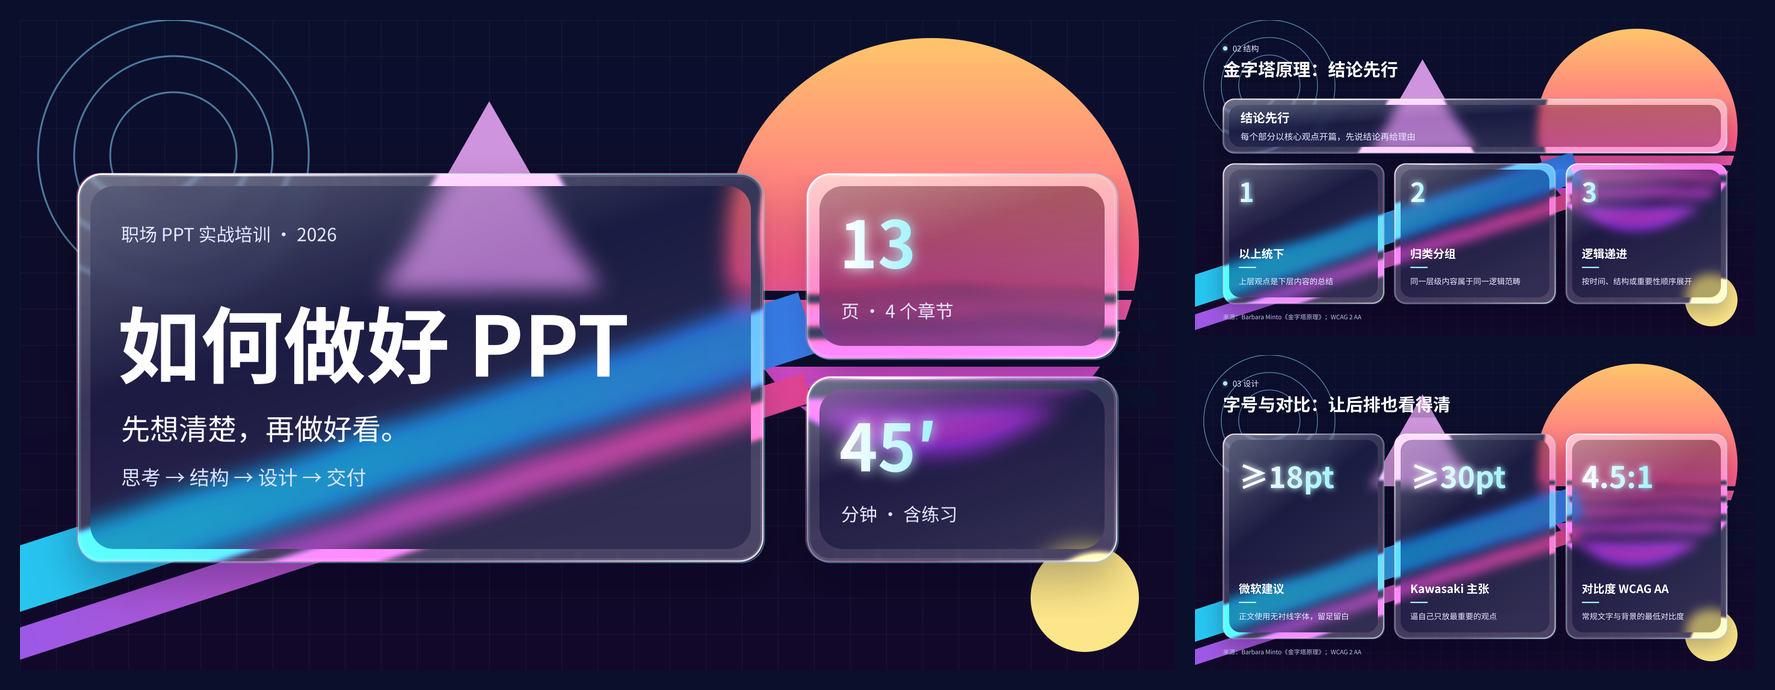
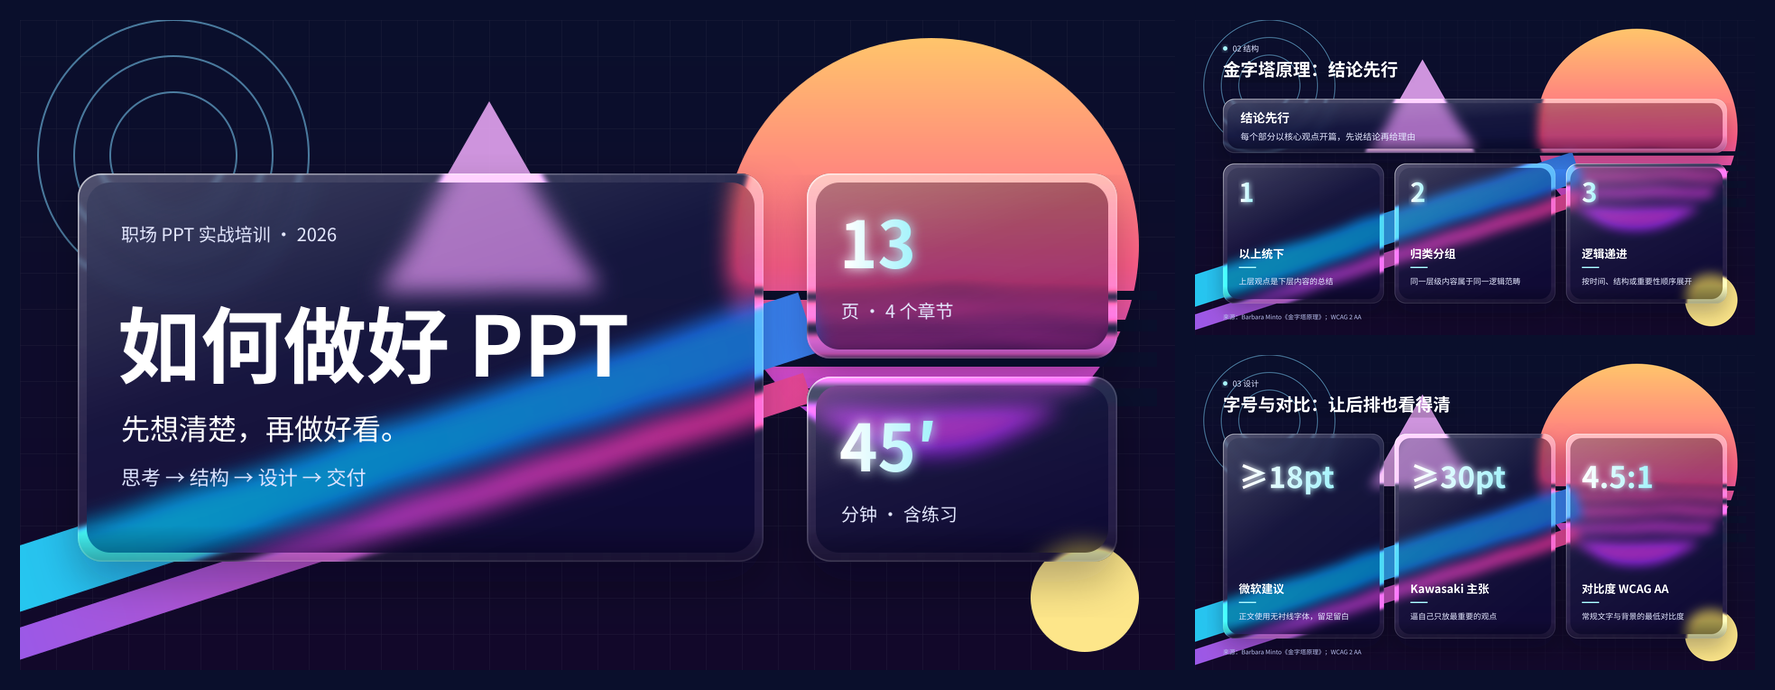
13 style packs: subtler material glass, add editorial/material3/neumorphism/claymorphism/neo-brutalism/aurora, style gallery

diff --git a/SKILL.md b/SKILL.md
@@ -183,6 +183,7 @@ python3 scripts/svg2pptx.py out.pptx svg/*.svg
 ---
 
 ## 附录 A：风格包
+共 13 个：A1 swiss · A2 apple-dark · A3 minimalism · A4 consulting · A5 tech-dark · A6 skeuo · A7 glass · A8 editorial · A9 material3 · A10 neumorphism · A11 claymorphism · A12 neo-brutalism · A13 aurora。不确定时：培训/通用选 swiss 或 minimalism；汇报/咨询选 consulting；发布会选 apple-dark；品牌故事选 editorial；年轻/活动选 claymorphism 或 neo-brutalism；科技产品选 tech-dark、glass 或 aurora。
 每个风格包包含：调色板、图表配色、设计哲学、背景处理、装饰语言、颜色使用规则，以及该做和不该做的事。
 （风格包结构和 minimalism、consulting 两个预设 adapted from zhx47/ppt-agent (Apache-2.0)）
 
@@ -240,22 +241,60 @@ python3 scripts/svg2pptx.py out.pptx svg/*.svg
 ### A7 `glass`：磨砂玻璃 / Liquid Glass
 **核心：玻璃好不好看取决于它后面有什么。** 背景必须是清晰、有结构的构图（可辨认的几何形状），玻璃质感来自对背景的折射、磨砂散射和边缘光，而不是一团模糊光斑。
 - 背景构图（全部放进 `<defs><g id="scene">`，页面先 `<use href="#scene"/>`）：深靛底 `#0A0F2C → #12082A` + 40px 细网格（白 0.07）；一个大"落日"圆（`#FFC56B → #FF5E8A → #B23CFF`），用 4 条逐渐加粗的深色横条切开；两条斜向彩带（`#22D3EE → #3B82F6`、`#8B5CF6 → #EC4899`，旋转 −18°）；同心圆环（`#7DD3FC` 描边 0.55）；一个粉紫三角形；一个小黄圆。形状要分布在卡片后面和卡片之间，让每张卡透出不同颜色。
-- 玻璃卡分层（从下到上）：
-  1. 投影：`feDropShadow dy=22 std=24`，色 `#02030F` 0.55。
-  2. **磨砂体**：clip 到卡片圆角矩形，放 `<use href="#scene" filter="url(#frost)">`；`frost` = `feTurbulence fractalNoise baseFrequency=".006 .009"` → `feDisplacementMap scale=16`（轻微扭曲＝折射感）→ `feGaussianBlur std=12` → `saturate 1.5`；再叠 `#0B1030` 0.30–0.38 暗层保证白字对比度。
-  3. **边缘折射**：用 evenodd 路径把 clip 限制在外缘 14px 的环带里，环带内放放大 1.12 倍（以卡片中心缩放）的背景副本 + `blur 3` + 亮度 ×1.35，再叠白 0.10。效果是边缘的背景被"弯折、放大、提亮"，像真玻璃厚边。
-  4. **内部光**：斜向白色渐变（左上 0.34 → 中 0.06 → 右下 0.14）。
-  5. **色散**：两条错位 1px 的描边，粉 `#FF6FB5` 0.45 向左、青 `#67E8F9` 0.45 向右下。
-  6. **亮边**：2px 白色渐变描边（左上 1.0 → 0.25 → 0.12 → 右下 0.8），内侧再加 1px 白 0.18 的内缘线。
-  7. **高光**：顶边一条 2px 白色横向渐变（两端透明，30% 处最亮），长度为卡宽 55%。
+- 玻璃卡分层（从下到上）——**边缘克制、偏实体材质**：
+  1. 投影：`feDropShadow dy=22 std=24`，色 `#02030F` 0.55，让玻璃像一块有重量的厚板。
+  2. **磨砂体**：clip 到卡片圆角矩形，放 `<use href="#scene" filter="url(#frost)">`；`frost` = `feTurbulence fractalNoise baseFrequency=".006 .009"` → `feDisplacementMap scale=16` → `feGaussianBlur std=12` → `saturate 1.5`；再叠 `#0B1030` 0.30–0.38 暗层保证白字对比度。
+  3. **轻微边缘折射**：evenodd 环带（外缘 10px）里放放大 1.05 倍的背景副本 + `blur 3` + 亮度 ×1.35，再叠白 0.06。只要隐约的厚度感。
+  4. **内部光**：斜向白色渐变（左上 0.22 → 中 0.04 → 右下 0），像光从左上打进玻璃。
+  5. **厚度**：卡片底部 40px 从透明到 `#02030F` 0.35 的渐变（clip 在卡片内），模拟玻璃板底边的暗部。
+  6. **唯一的亮边**：1.5px 白色渐变描边（左上 0.7 → 0.18 → 右下 0.1）。
+  - 不加色散描边、不加顶部高光条、不加第二道内缘线：边缘效果只保留一处。
 - 文字：标题白色并带投影；大数字填充 `#FFFFFF → #A5F3FC` 并发光；正文 ≥18，次级 `#E4E8FF`。
 - 卡片：圆角 24–26，间距 24。
 - 参考：Liquid Glass 的 feDisplacementMap 做法（courtsimas/glass-lens、LeonardSEO/liquid-glass-react、dpawlikowski/liquid-glass，MIT），"滤镜作用于背景副本而不是 backdrop"的思路；只借鉴思路，代码为原创。
-- 不该做：背景只有模糊光斑（玻璃会显得发灰发平）；displacement scale 过大（>30 会出现蠕虫状噪点）；正文压在高亮形状上而没有暗层；浅色背景上用白玻璃。
+- 不该做：背景只有模糊光斑（玻璃会显得发灰发平）；边缘效果叠太多（色散+高光条+双描边会显得廉价）；displacement scale 过大（>30 会出现蠕虫状噪点）；正文压在高亮形状上而没有暗层；浅色背景上用白玻璃。
 
-**A6/A7 的检查与导出**：
+### A8 `editorial`：杂志 / 编辑排版
+- 调色板：纸色 `#F7F3EC`，墨黑 `#111111`，次级 `#3F3A33` / `#6B6257`，强调砖红 `#8A2B1F`，分隔线 `#CFC6B8`。
+- 版式：顶部刊头（小号大写字距 3 的栏目名，砖红）+ 3px+1px 双线；超大衬线标题（Noto Serif CJK，88–96，weight 900）配一行砖红副题；右侧竖线隔出引语区（大号砖红引号 “ + 衬线引文 + 署名）；下方三栏用细竖线分隔，每栏 "01" 编号 + 衬线小标题 34 + 正文 18，背后一个 150px 的灰色巨号数字（opacity 0.08）。底部细线 + 来源 + 页码。
+- 不用卡片底色，靠线和留白组织；适合观点类、品牌故事、年度回顾。
+- 不该做：圆角、阴影、渐变、超过 1 种强调色。
+
+### A9 `material3`：Material 3 / Material You
+- 调色板（基于种子色生成的 tonal palette）：Surface `#FFFBFE`，Surface Container `#F3EDF7`，Primary `#6750A4`，Primary Container `#EADDFF`，Secondary Container `#E8DEF8`，Tertiary Container `#FFD8E4`，On Surface `#1C1B1F`，次级 `#49454F`，Outline `#79747E`。
+- 形状：大圆角 28（卡片）、全圆角胶囊（标签 chip）；背景角落放一个 Primary Container 色的有机大形状（贝塞尔曲线）和一个 Tertiary 圆。
+- 卡片：Surface Container 填充 + elevation 1（`dy=1 std=1.5` 0.15 + `dy=4 std=6` 0.08）；右上角放一个 Container 色的圆形"图标位"，三张卡分别用 Secondary / Tertiary / 薄荷色调。重点卡用 Primary 实底白字。
+- 字号：标题 42（weight 600），大数字 60（weight 500，Primary），正文 18。
+- 不该做：硬阴影、尖角、饱和度过高的颜色、多个种子色。
+
+### A10 `neumorphism`：新拟态（Soft UI）
+- 调色板：底色 = 卡片色 `#E0E5EC`（单色），凹槽 `#D1D9E6`，文字 `#3D4852` / `#6B7280`，强调紫 `#6C63FF`。
+- 凸起卡：同底色圆角 28，滤镜叠两层投影：左上白光 `dx=-10 dy=-10 std=12 #FFFFFF 0.9` + 右下暗影 `dx=12 dy=12 std=14 #A3B1C6 0.75`（用 feMerge 叠在原图下方）。
+- 凹陷区（重点卡内嵌）：内阴影滤镜（`feFlood` → `feComposite operator="out"` → blur 5 → offset 4,4 → 再 `in` 回原形状）。
+- 光源统一左上；对比度偏低，所以正文 ≥18，关键数字用强调紫。
+- 不该做：彩色底、细边框、深色模式、小字号浅灰字。
+
+### A11 `claymorphism`：黏土风
+- 调色板：画布 `#F4F1FA`，糖果色卡片 `#C4B5FD` 薰衣草 / `#FDBCB4` 蜜桃 / `#A7F3D0` 薄荷 / `#FDE68A` 奶黄，重点卡 `#7C3AED`，文字 `#332F3A`。
+- 卡片：大圆角 36；外投影 `dy=18 std=16 #5B3FA8 0.28`；内高光（白 0.8，offset 6,8，blur 8）+ 内暗部（`#3B1F7A` 0.25，offset −6,−10，blur 10），让卡片像充气的软黏土。
+- 标签用深色胶囊；大数字粗黑（weight 900，比常规大 8）；背景角落放两个半透明大圆点缀。
+- 不该做：尖角、细线条、写实阴影、超过 4 种糖果色。
+
+### A12 `neo-brutalism`：新粗野主义
+- 调色板：奶油底 `#FFFDF5`，纯黑 `#000000`，亮黄 `#FFD93D`，热红 `#FF6B6B`，柔紫 `#C4B5FD`。
+- 卡片：直角、3px 黑描边，右下 8px 实心黑色硬阴影（就是偏移 8,8 的黑色矩形，无模糊）；重点卡黑底黄字。
+- 背景：40px 竖线网格（黑 0.06）。标签是带黑框的红色小矩形；标题 44 weight 900；大数字 weight 900。
+- 不该做：渐变、圆角、柔和阴影、半透明。
+
+### A13 `aurora`：极光 / 渐变网格
+- 背景：`#070B1F` 深底 + 4 个大椭圆（`#22D3EE`、`#8B5CF6`、`#EC4899`、`#10B981`，旋转 ±10°）整体 `feGaussianBlur std=70`，形成流动的极光；不要压到正文区域的正下方。
+- 卡片：`#0B1026` 0.45–0.62 半透明深卡 + 白 0.16 细描边 + `dy=16 std=22` 黑 0.35 投影（深色玻璃但不做磨砂和边缘效果，比 `glass` 轻）。
+- 强调：`#7DD3FC → #F0ABFC` 渐变用于大数字和短条。文字白 / `#CBD5E1`。
+- 不该做：极光饱和度过高压住文字、在浅色底上用。
+
+**A6–A13 的检查与导出**：
 - `check_render.py` 会把 `fill="none"` 或 `opacity<1` 的装饰矩形（高光、斜面、缝线框）排除在"卡片"之外，不会误报溢出。
-- 这两个风格包是渐变色强调，**不要传 `--accent`**（面积检查只适用于纯色强调色的风格包）；改为看 PNG 目视确认强调不过量。
+- 这些风格包多为渐变或多色强调，**不要传 `--accent`**（面积检查只适用于纯色强调色的风格包）；改为看 PNG 目视确认强调不过量。
 - 导出 PPTX 时 PNG 回退由 rsvg 渲染，滤镜/渐变/模糊都会如实呈现；PowerPoint 对 SVG 滤镜支持有限，原生 SVG 层可能显示得比 PNG 简化，重要场合以 PNG 渲染效果为准、导出后在目标软件里打开检查。
 
 **品牌或参考图**：用户有品牌就用品牌官方主色替换强调色。给了参考图的话，先把参考图的配色、字号层级和卡片样式分析成以上格式的文字规则再用。

diff --git a/NOTICE.md b/NOTICE.md
@@ -12,3 +12,4 @@ scripts/ 下的脚本为原创编写，未复制第三方源码。
 - lewislulu/html-ppt-skill（MIT）https://github.com/lewislulu/html-ppt-skill ：主题 token 结构（glassmorphism、blueprint、pitch-deck-vc、swiss-grid）。
 - anthropics/skills frontend-design（Apache-2.0）https://github.com/anthropics/skills/tree/main/skills/frontend-design ：背景要有氛围和层次、避免模板化默认审美。
 - courtsimas/glass-lens（MIT）https://github.com/courtsimas/glass-lens 、LeonardSEO/liquid-glass-react（MIT）https://github.com/LeonardSEO/liquid-glass-react 、dpawlikowski/liquid-glass（MIT）https://github.com/dpawlikowski/liquid-glass ：feDisplacementMap 折射、滤镜作用于背景副本、边缘色散。
+- nextlevelbuilder/ui-ux-pro-max-skill（MIT）https://github.com/nextlevelbuilder/ui-ux-pro-max-skill ：styles.csv 中 Neumorphism、Claymorphism、Neubrutalism、Material 3、Aurora、Editorial Grid、Liquid Glass 等风格的关键词与配色参考。

diff --git a/README.md b/README.md
@@ -51,9 +51,9 @@ Then just say: **`frame: a 10-page training deck on running good meetings`**
 ![consulting](docs/images/showcase-consulting.png)
 ![tech](docs/images/showcase-tech.png)
 
-**7 style packs**, plus brand colors or a reference image
+**13 style packs on the same slide** (full-size images in [docs/images/styles/](docs/images/styles/)), plus brand colors or a reference image
 
-![style packs](docs/images/style-packs.png)
+![style packs](docs/images/style-gallery.png)
 
 Export: editable PPTX (each slide embeds its SVG with a PNG fallback) or a single-file HTML.
 

diff --git a/README.zh-CN.md b/README.zh-CN.md
@@ -51,9 +51,9 @@ git clone https://github.com/ottoprua/frame-ppt.git ~/.claude/skills/frame-ppt
 ![consulting](docs/images/showcase-consulting.png)
 ![tech](docs/images/showcase-tech.png)
 
-**7 个风格包**，也支持品牌色或参考图
+**13 个风格包，同一页内容对比**（单张大图在 [docs/images/styles/](docs/images/styles/)），也支持品牌色或参考图
 
-![风格包](docs/images/style-packs.png)
+![风格包](docs/images/style-gallery.png)
 
 导出：可编辑的 PPTX（每页内嵌 SVG，并附 PNG 回退），或单文件 HTML。
 
